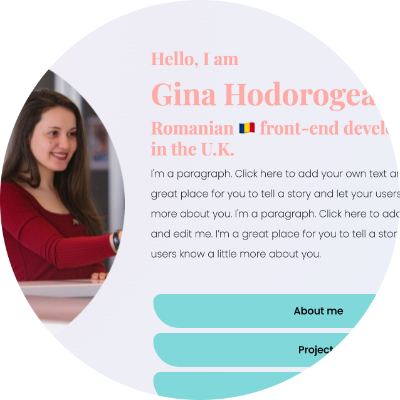
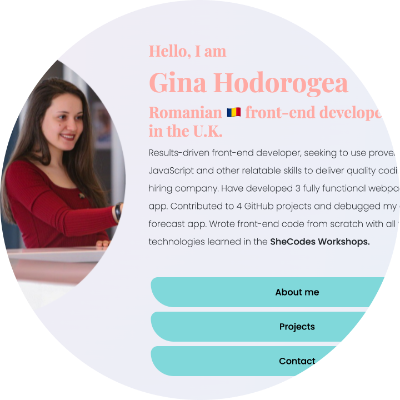
changed the webpage photo to an updated one

diff --git a/index.html b/index.html
@@ -45,7 +45,7 @@
                 <div class="col-md-6">
                 <h3 class="text-start mt-5 lh-sm">Hello, I am </h3>
                 <h1 class="text-start lh-sm">Gina Hodorogea</h1>
-                <h3 class="text-start"> Romanian 🇷🇴 front-end developer, based in the U.K.</h3>
+                <h3 class="text-start mb-4"> Romanian 🇷🇴 front-end developer, based in the U.K.</h3>
                 <p class="text-start lh-lg mb-5">Results-driven front-end developer, seeking to use proven HTML, CSS, JavaScript and other relatable skills to deliver quality coding to the hiring company.
                   Have developed 3 fully functional webpages and 1 app. Contributed to 4 GitHub projects and debugged my own forecast app. Wrote front-end code from scratch with all the technologies learned in the <strong>SheCodes Workshops.</strong>
                 </p>
